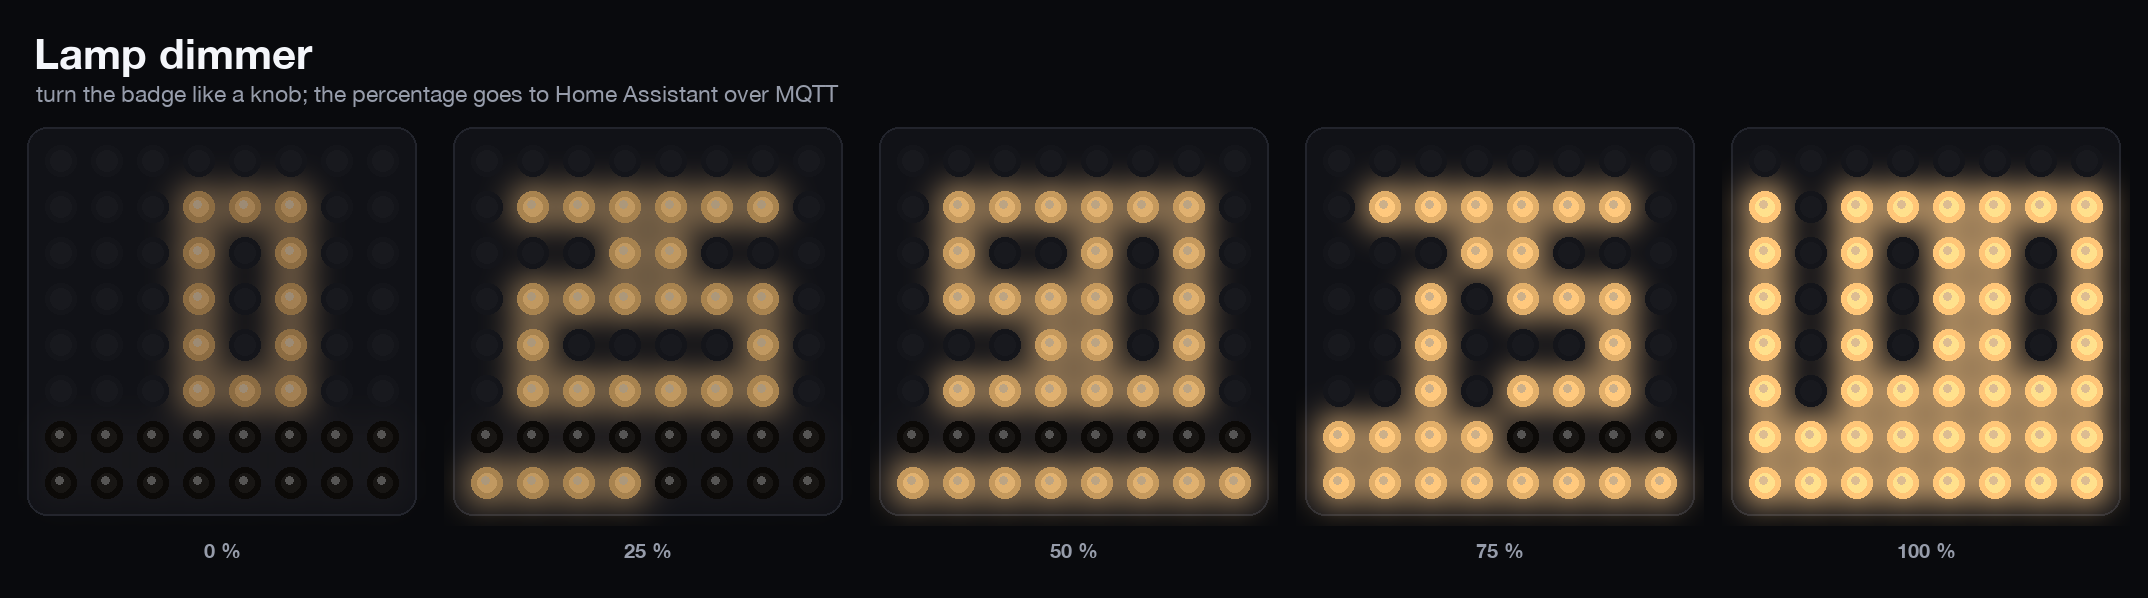
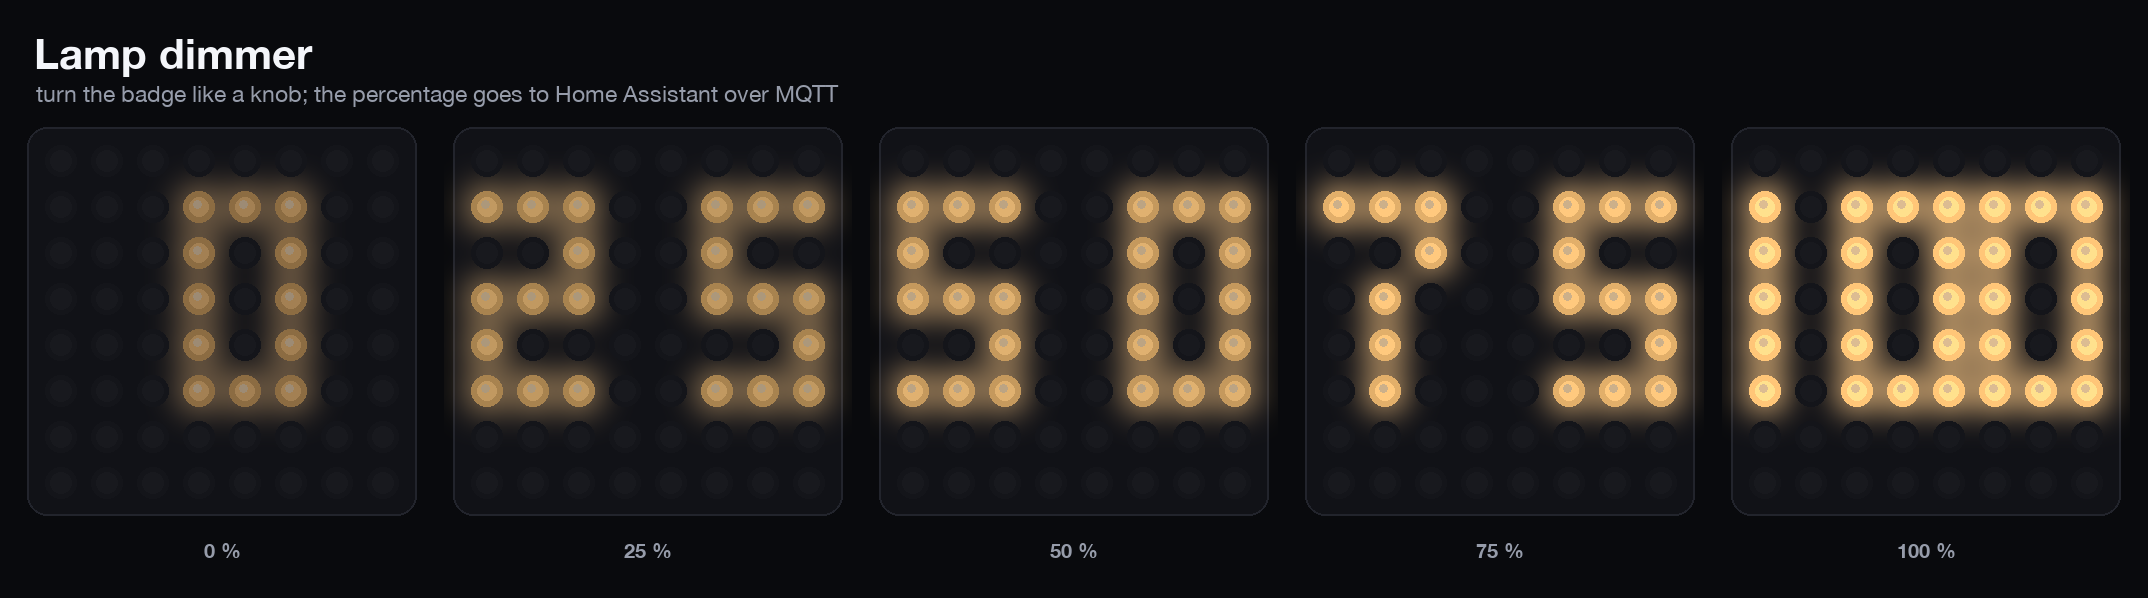
Dimmer: drop the level bar, spread the digits to the outer columns

Changed region(s): [[0.1872, 0.2709, 0.9981, 0.8729]]

diff --git a/firmware/ESP32_S3_Matrix_Liquid/README.md b/firmware/ESP32_S3_Matrix_Liquid/README.md
@@ -85,9 +85,9 @@ The second effect turns the badge into a rotary dimmer for a real lamp:
 - **Flat on the table**: gravity is perpendicular to the screen and carries no
   angle, so the gyro Z rate is integrated instead (with hysteresis at
   `KNOB_FLAT_G`, 0.8 dps dead band and the zero point relearned while still).
-- **Display** — the percentage in 3×5 digits plus a two-row level bar, fixed to
-  the board (no upright correction), so it turns with the badge like a real
-  knob.
+- **Display** — just the percentage, in 3×5 digits spread to the outer three
+  columns each so the two digits never touch. Fixed to the board (no upright
+  correction), so it turns with the badge like a real knob.
 - **Publishing** — `{"pct":N}` on `ledbadge/knob`, retained, at most 5
   messages/s and only when the whole percent changes.
 - **Persistence** — the knob position is written to NVS once it has been still
